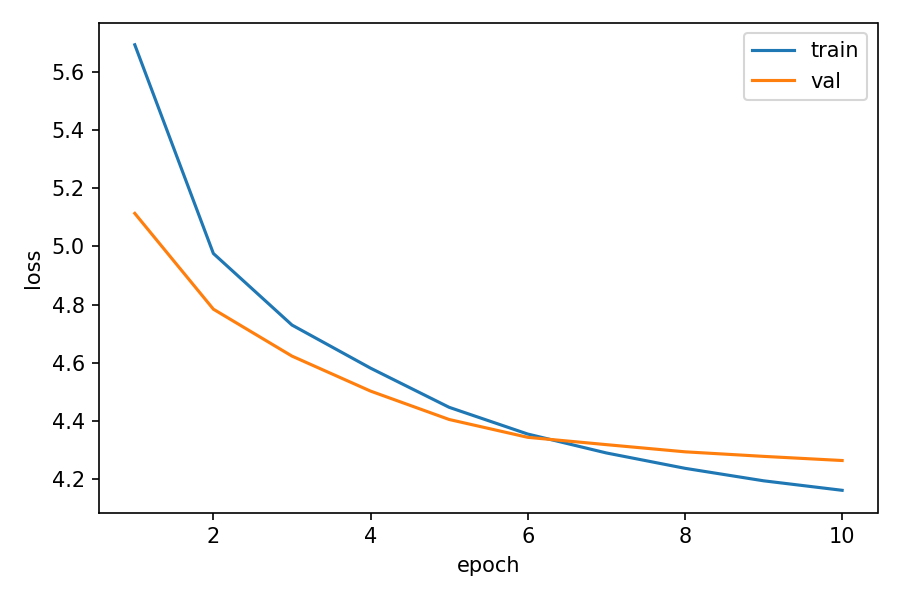
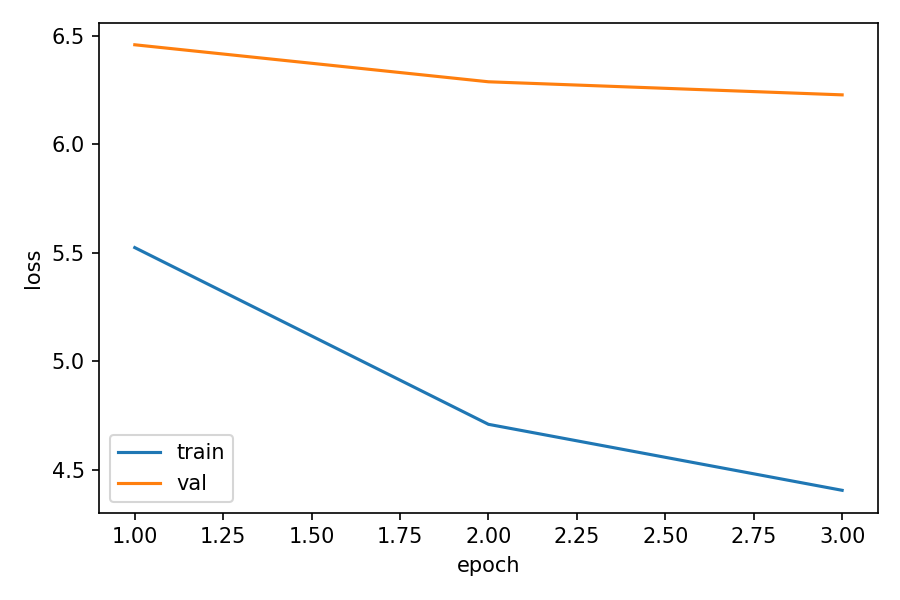
训练窗口从诗头起窗 + 生成滑窗对齐到诗头，修复128字后生成紊乱

diff --git a/dataset.py b/dataset.py
@@ -38,6 +38,7 @@ class PoetryBlockDataset(Dataset):
         block_size: int,
         num_samples: Optional[int] = None,
         sample_random: bool = True,
+        poem_start_token_id: Optional[int] = None,
     ) -> None:
         if not os.path.isfile(data_path):
             raise FileNotFoundError(data_path)
@@ -49,22 +50,39 @@ class PoetryBlockDataset(Dataset):
         if n < self.block_size + 1:
             raise ValueError(f"序列太短: {n}，需 > block_size+1")
         self._max_i = n - self.block_size
+        # 诗头对齐：给定分隔符 id（如换行符）时，起窗下标只取「每首诗的第一个字」，
+        # 即全文第 0 位与每个分隔符的下一位，让模型学到「位置 0 = 诗的开头」。
+        self._starts: Optional[torch.Tensor] = None
+        if poem_start_token_id is not None:
+            sep_pos = (self.data == int(poem_start_token_id)).nonzero(as_tuple=True)[0]
+            starts = torch.cat([torch.zeros(1, dtype=torch.long), sep_pos + 1])
+            starts = starts[starts < self._max_i]
+            if starts.numel() == 0:
+                raise ValueError("找不到可用的诗头起点，请检查 poem_start_token_id")
+            self._starts = starts
+        # 可选起点总数：诗头对齐时为诗头个数，否则为全部滑窗数
+        pool = int(self._starts.numel()) if self._starts is not None else int(self._max_i)
         if num_samples is not None and int(num_samples) > 0:
-            self._len = min(int(num_samples), self._max_i)
+            self._len = min(int(num_samples), pool)
         else:
-            self._len = int(self._max_i)
-        # 显式子采样时：在长序列上随机起窗，避免一个 epoch 扫完全部滑窗
+            self._len = pool
+        # 显式子采样时：在可选起点中随机挑选，避免一个 epoch 扫完全部起点
         self._sample_random = (
             bool(sample_random)
             and (num_samples is not None and int(num_samples) > 0)
-            and (self._len < self._max_i)
+            and (self._len < pool)
         )
 
     def __len__(self) -> int:
         return int(self._len)
 
     def __getitem__(self, idx: int) -> Tuple[torch.Tensor, torch.Tensor]:
-        if self._sample_random:
+        if self._starts is not None:
+            if self._sample_random:
+                i = int(self._starts[random.randrange(self._starts.numel())])
+            else:
+                i = int(self._starts[int(idx) % self._starts.numel()])
+        elif self._sample_random:
             i = random.randrange(0, self._max_i)
         else:
             i = int(idx) % int(self._max_i)

diff --git a/train.py b/train.py
@@ -68,6 +68,10 @@ TRAIN_NUM_SAMPLES = 50_000
 # 0=按 DataLoader 长度跑满本 epoch
 MAX_TRAIN_BATCHES = 0
 
+# 训练窗口是否只从每首诗的开头起窗（1=是，0=任意位置随机起窗）。
+# 对齐后模型可学到「位置 0 = 诗的开头」，单字起笔生成更像完整一首；验证集不受影响
+ALIGN_POEM_START = 1
+
 # 未安装 tqdm 时，无进度条，每隔多少 batch 打印一次当前步 loss；0=不打印
 LOG_INTERVAL = 50
 
@@ -164,6 +168,12 @@ def main() -> None:
         default=LOG_INTERVAL,
         help="无 tqdm 时每多少个 batch 打印一次训练 loss；0 表示不打印",
     )
+    p.add_argument(
+        "--align_poem_start",
+        type=int,
+        default=ALIGN_POEM_START,
+        help="1=训练窗口只从每首诗开头起窗；0=任意位置随机起窗（原行为）",
+    )
     p.add_argument("--seed", type=int, default=SEED)
     p.add_argument("--log_plot", type=str, default=LOSS_PLOT, help="保存 loss 曲线图路径")
     args = p.parse_args()
@@ -176,8 +186,12 @@ def main() -> None:
     device = get_device()
     print("设备:", device)
 
-    _, __, vs = load_vocab_json(args.vocab)
+    stoi, _itos, vs = load_vocab_json(args.vocab)
     vocab_size = vs
+    # 诗头对齐起窗：用换行符 id 标记「一首诗的结束/下一首的开始」
+    poem_start_id = stoi.get("\n") if int(args.align_poem_start) else None
+    if int(args.align_poem_start) and poem_start_id is None:
+        print("警告: 词表中无换行符，已退回任意位置起窗", file=sys.stderr)
 
     try:
         from tqdm import tqdm
@@ -187,7 +201,11 @@ def main() -> None:
     train_n = int(args.train_num_samples) if int(args.train_num_samples) > 0 else None
     print("正在加载训练/验证张量 (train_data.pt 可能较大，需等待片刻)...", flush=True)
     train_ds = PoetryBlockDataset(
-        args.train_pt, args.block_size, num_samples=train_n, sample_random=True
+        args.train_pt,
+        args.block_size,
+        num_samples=train_n,
+        sample_random=True,
+        poem_start_token_id=poem_start_id,
     )
     val_ds = PoetryBlockDataset(args.val_pt, args.block_size, num_samples=None, sample_random=False)
     ntok_tr = int(train_ds.data.size(0))  # type: ignore[attr-defined]

diff --git a/predict.py b/predict.py
@@ -9,7 +9,7 @@
 import argparse
 import os
 import sys
-from typing import Dict, List, Tuple
+from typing import Dict, List, Optional, Tuple
 
 import torch
 import torch.nn.functional as F
@@ -21,7 +21,11 @@ from train import get_device
 
 @torch.no_grad()
 def sample_next(
-    model: CharGPT, idx: torch.Tensor, temperature: float, device: torch.device
+    model: CharGPT,
+    idx: torch.Tensor,
+    temperature: float,
+    device: torch.device,
+    newline_id: Optional[int] = None,
 ) -> int:
     """idx: (1, t)，取**最后一个**时间步的 logits 采样下一 token。"""
     model.eval()
@@ -29,7 +33,15 @@ def sample_next(
         raise ValueError("序列为空")
     # 超长只保留最后 block_size
     t = min(idx.size(1), model.block_size)
-    x = idx[:, -t:].contiguous()
+    x = idx[:, -t:]
+    # 诗头对齐截窗：训练窗口若只从诗头起（位置 0 = 诗的第一个字），滑窗时也应
+    # 把起点对齐到窗内最近一个换行符的下一位，保持训练/推理分布一致
+    if newline_id is not None and idx.size(1) > model.block_size:
+        row = x[0]
+        nl_pos = (row[:-1] == newline_id).nonzero(as_tuple=True)[0]  # 排除末位，避免切出空窗
+        if nl_pos.numel() > 0:
+            x = x[:, int(nl_pos[-1]) + 1 :]
+    x = x.contiguous()
     logits, _ = model(x)  # (1, t, V)
     last = logits[:, -1, :] / max(temperature, 1e-6)
     p = F.softmax(last, dim=-1)
@@ -91,6 +103,7 @@ def generate_one(
             torch.tensor([out_ids], device=device, dtype=torch.long),
             temperature,
             device,
+            newline_id=newline_id,
         )
         out_ids.append(nxt)
         if stop_newline and newline_id is not None and nxt == newline_id:
